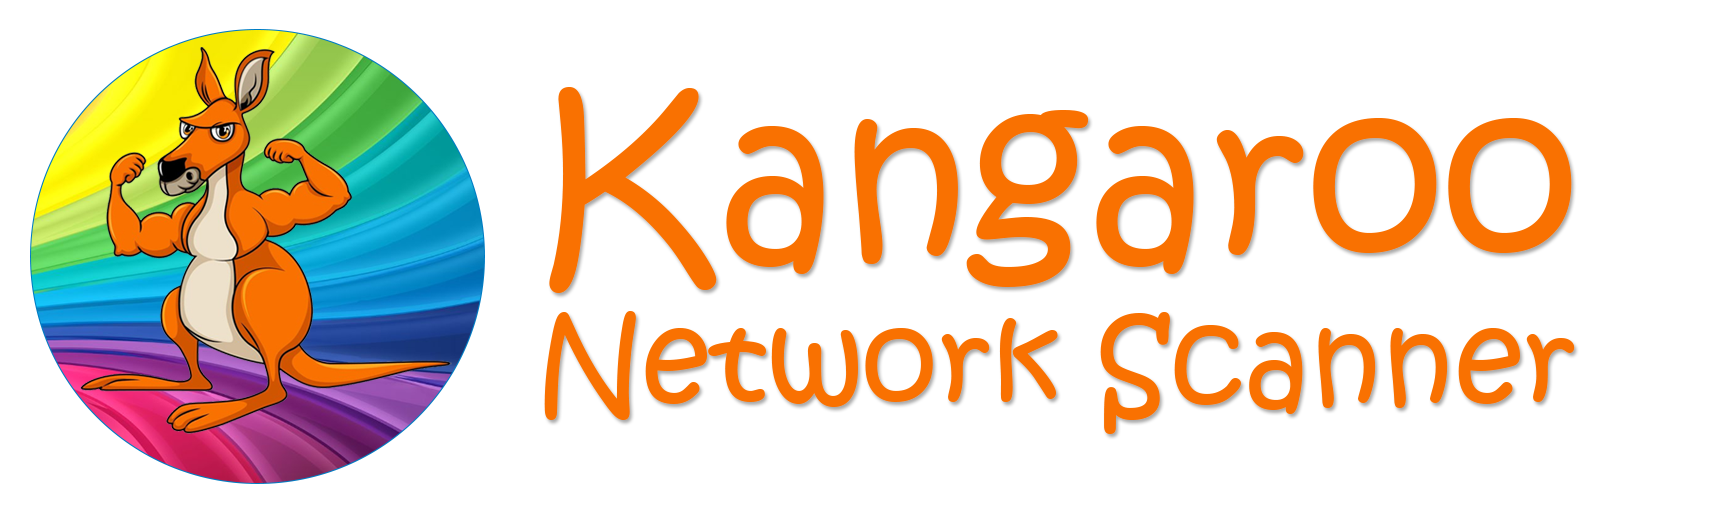
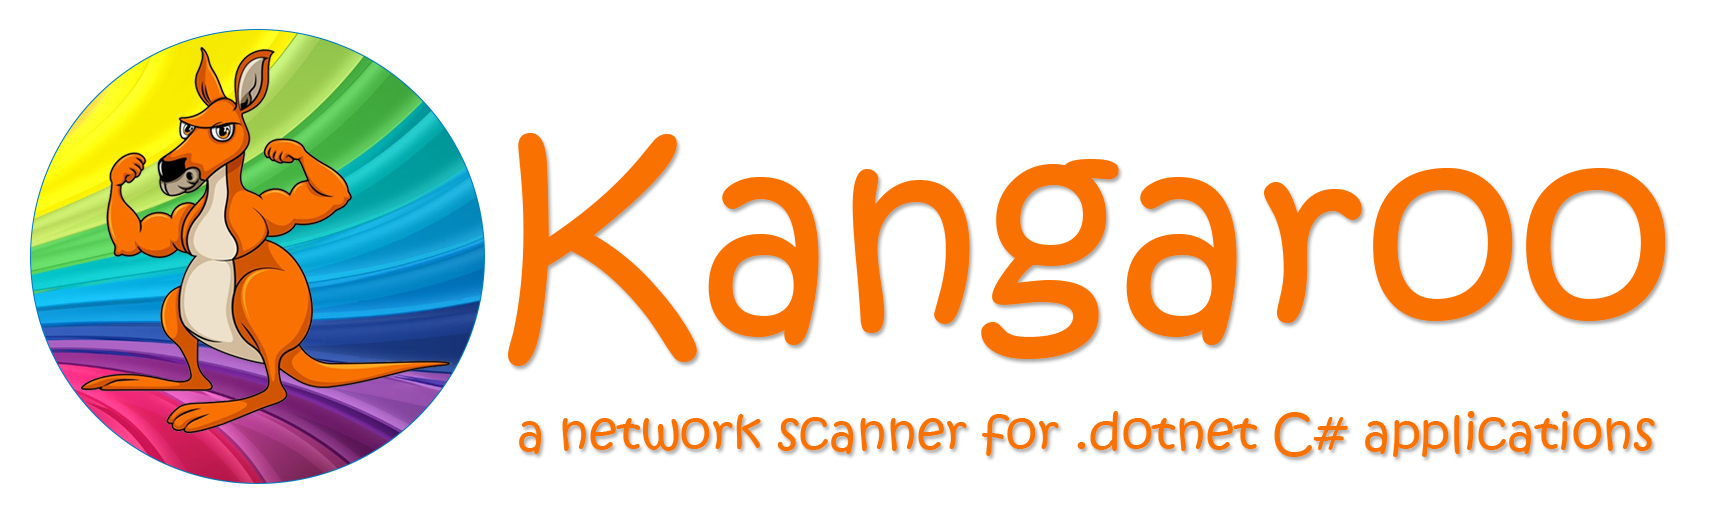
updated readme

Changed region(s): [[0.2773, 0.1538, 0.986, 0.8923]]

diff --git a/README.md b/README.md
@@ -1,6 +1,5 @@
 ![Readme Image](./docs/kangaroo-header.png)
 
-# kangaroo Network Scanner
 ![GitHub](https://img.shields.io/github/license/ewilliams0305/kangaroo) 
 ![GitHub all releases](https://img.shields.io/github/downloads/ewilliams0305/kangaroo/total) 
 ![Nuget](https://img.shields.io/nuget/dt/kangaroo)
